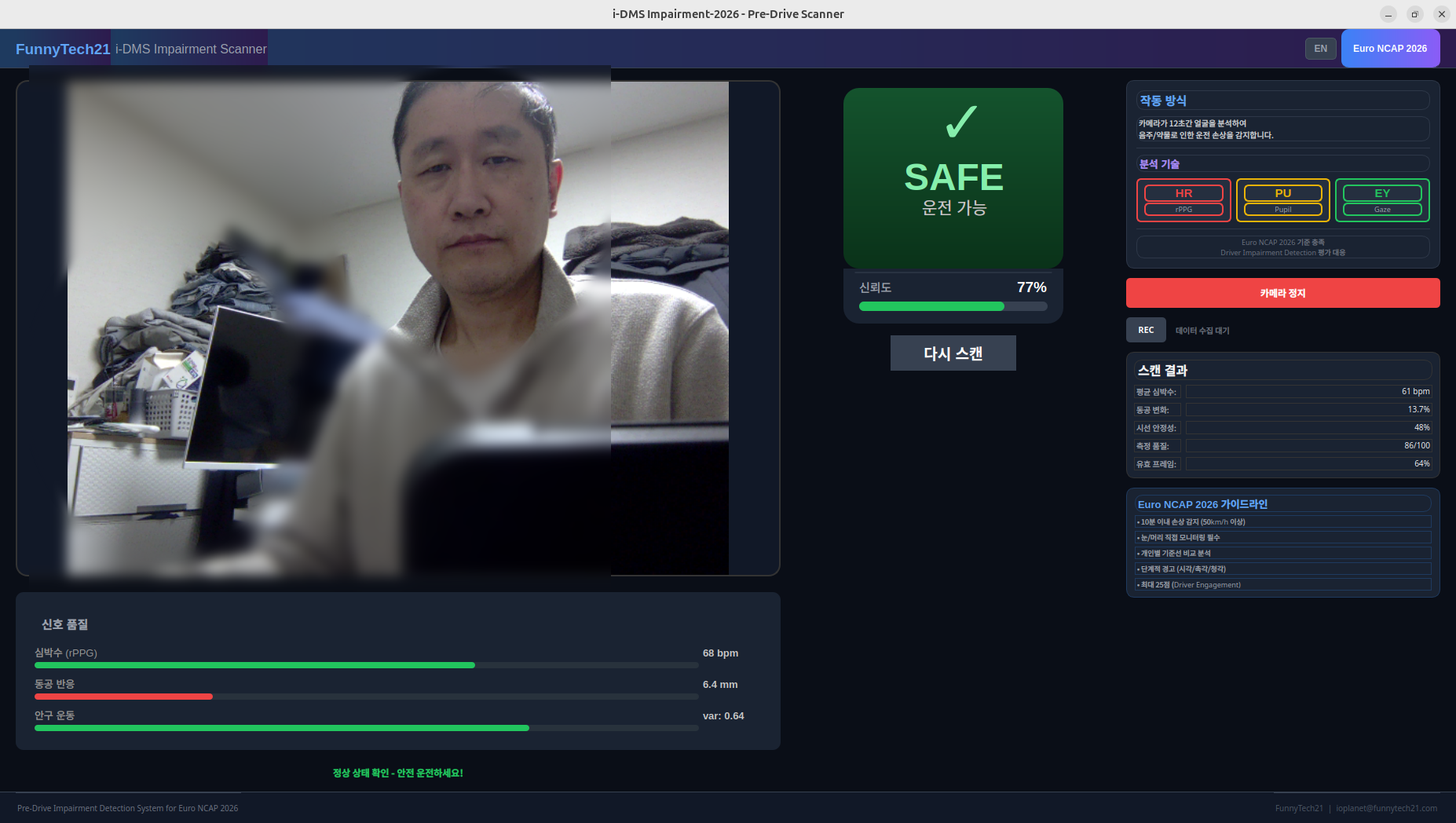
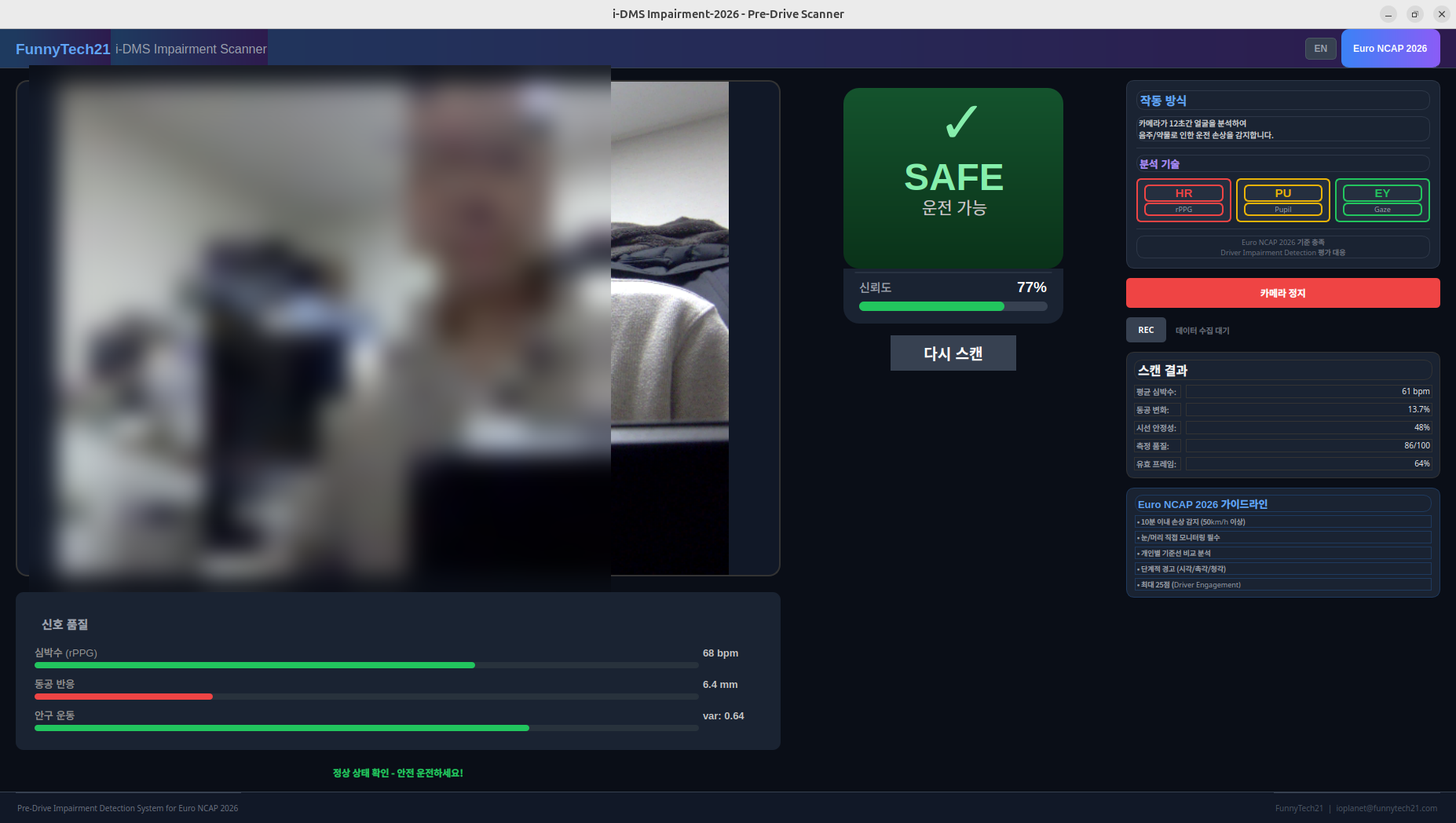
Revamp blog post: Autonomous driving open-source era & driver state analysis
- New concept: Why driver state analysis matters when AD tech becomes commodity
- Emphasize liability proof system instead of just alcohol detection
- Highlight 4 key differentiators: legal evidence, alcohol detection, on-device processing, AD ecosystem complement
- Apply strong blur to person/background in screenshots for privacy
- Update blog title and description

diff --git a/blog-idms-alcohol-detection.html b/blog-idms-alcohol-detection.html
@@ -467,8 +467,8 @@
                 <span class="article-category" data-ko="i-DMS Technology" data-en="i-DMS Technology" data-ja="i-DMS技術" data-zh="i-DMS技术">i-DMS Technology</span>
                 <span class="article-date">2026.01.09</span>
             </div>
-            <h1 data-ko="i-DMS: AI 기반 비접촉 알코올 검출 솔루션" data-en="i-DMS: AI-based Non-contact Alcohol Detection Solution" data-ja="i-DMS: AI基盤非接触アルコール検出ソリューション" data-zh="i-DMS: 基于AI的非接触式酒精检测解决方案">i-DMS: AI 기반 비접촉 알코올 검출 솔루션</h1>
-            <p class="article-summary" data-ko="Euro NCAP 2026 Impairment Detection 기준을 만족하는 FunnyTech21의 AI 기반 운전자 손상 상태 탐지 솔루션입니다. 동공, 시선, 안진, HRV 분석을 통해 운전자의 알코올 음주 상태를 비접촉으로 탐지합니다." data-en="FunnyTech21's AI-based driver impairment detection solution meeting Euro NCAP 2026 Impairment Detection standards. Non-contact alcohol detection through pupil, gaze, nystagmus, and HRV analysis." data-ja="Euro NCAP 2026 Impairment Detection基準を満たすFunnyTech21のAI基盤ドライバー損傷状態検出ソリューション。瞳孔、視線、眼振、HRV分析による非接触アルコール検出。" data-zh="满足Euro NCAP 2026损伤检测标准的FunnyTech21 AI驾驶员损伤状态检测解决方案。通过瞳孔、视线、眼震、HRV分析实现非接触式酒精检测。">Euro NCAP 2026 Impairment Detection 기준을 만족하는 FunnyTech21의 AI 기반 운전자 손상 상태 탐지 솔루션입니다. 동공, 시선, 안진, HRV 분석을 통해 운전자의 알코올 음주 상태를 비접촉으로 탐지합니다.</p>
+            <h1 data-ko="자율주행 오픈소스 시대, 진짜 필요한 것은 '운전자 상태 분석'이다" data-en="In the Era of Open-Source Autonomous Driving, What Really Matters is 'Driver State Analysis'" data-ja="自動運転オープンソース時代、本当に必要なのは「運転者状態分析」だ" data-zh="在自动驾驶开源时代，真正需要的是'驾驶员状态分析'">자율주행 오픈소스 시대, 진짜 필요한 것은 '운전자 상태 분석'이다</h1>
+            <p class="article-summary" data-ko="자율주행 기술이 오픈소스로 풀리면서 기술 차별화의 시대는 끝났습니다. 이제 진짜 경쟁력은 '사고 발생 시 누가 책임지는가'를 증명할 수 있는 온디바이스 운전자 상태 분석 기술에 있습니다." data-en="As autonomous driving technology becomes open source, the era of technical differentiation is over. The real competitive edge now lies in on-device driver state analysis technology that can prove 'who is responsible when accidents occur.'" data-ja="自動運転技術がオープンソース化され、技術差別化の時代は終わりました。今、本当の競争力は「事故発生時に誰が責任を負うか」を証明できるオンデバイス運転者状態分析技術にあります。" data-zh="随着自动驾驶技术开源化，技术差异化的时代已经结束。现在真正的竞争力在于能够证明'事故发生时谁负责'的设备端驾驶员状态分析技术。">자율주행 기술이 오픈소스로 풀리면서 기술 차별화의 시대는 끝났습니다. 이제 진짜 경쟁력은 '사고 발생 시 누가 책임지는가'를 증명할 수 있는 온디바이스 운전자 상태 분석 기술에 있습니다.</p>
         </div>
     </header>
 
@@ -479,41 +479,45 @@
         </a>
 
         <div class="article-content">
-            <h2 data-ko="Euro NCAP 2026 Impairment Detection" data-en="Euro NCAP 2026 Impairment Detection" data-ja="Euro NCAP 2026 Impairment Detection" data-zh="Euro NCAP 2026 Impairment Detection">Euro NCAP 2026 Impairment Detection</h2>
+            <h2 data-ko="자율주행 기술의 범용화" data-en="Commoditization of Autonomous Driving Technology" data-ja="自動運転技術の汎用化" data-zh="自动驾驶技术的通用化">자율주행 기술의 범용화</h2>
 
-            <p data-ko="2026년부터 Euro NCAP은 차량 안전 평가에 새로운 기준을 도입합니다. 기존의 졸음 감지(Drowsiness)와 주의력 분산 감지(Distraction)에 더해, 알코올 등 약물에 의한 운전자 손상 상태(Impairment)를 탐지하는 기능이 평가 항목에 추가됩니다." data-en="Starting in 2026, Euro NCAP introduces new criteria for vehicle safety assessment. In addition to existing drowsiness and distraction detection, driver impairment detection from alcohol and other substances will be added to the evaluation criteria." data-ja="2026年からEuro NCAPは車両安全評価に新しい基準を導入します。既存の居眠り検知と注意散漫検知に加え、アルコール等による運転者損傷状態の検出機能が評価項目に追加されます。" data-zh="从2026年开始，Euro NCAP将为车辆安全评估引入新标准。除了现有的疲劳检测和注意力分散检测外，还将增加对酒精等物质导致的驾驶员损伤状态检测的评估项目。">2026년부터 Euro NCAP은 차량 안전 평가에 새로운 기준을 도입합니다. 기존의 졸음 감지(Drowsiness)와 주의력 분산 감지(Distraction)에 더해, 알코올 등 약물에 의한 운전자 손상 상태(Impairment)를 탐지하는 기능이 평가 항목에 추가됩니다.</p>
+            <p data-ko="최근 자율주행 업계에 큰 변화가 일어났습니다. 글로벌 반도체 기업들이 자율주행 솔루션을 오픈소스로 공개하면서, 자율주행 기술 자체는 더 이상 차별화 요소가 아니게 되었습니다. 이제 누구나 검증된 자율주행 스택을 활용할 수 있는 시대가 열린 것입니다." data-en="A major shift has occurred in the autonomous driving industry. As global semiconductor companies release their autonomous driving solutions as open source, the technology itself is no longer a differentiator. We've entered an era where anyone can leverage proven autonomous driving stacks." data-ja="最近、自動運転業界に大きな変化が起きました。グローバル半導体企業が自動運転ソリューションをオープンソースで公開し、自動運転技術自体はもはや差別化要素ではなくなりました。誰もが検証された自動運転スタックを活用できる時代が開かれました。" data-zh="自动驾驶行业最近发生了重大变化。随着全球半导体公司将其自动驾驶解决方案开源，该技术本身不再是差异化因素。我们已进入任何人都可以利用经过验证的自动驾驶堆栈的时代。">최근 자율주행 업계에 큰 변화가 일어났습니다. 글로벌 반도체 기업들이 자율주행 솔루션을 오픈소스로 공개하면서, 자율주행 기술 자체는 더 이상 차별화 요소가 아니게 되었습니다. 이제 누구나 검증된 자율주행 스택을 활용할 수 있는 시대가 열린 것입니다.</p>
 
-            <p data-ko="이는 음주운전으로 인한 교통사고를 예방하기 위한 중요한 기술적 진보입니다. 기존의 음주측정기는 운전자가 직접 호흡을 불어넣어야 하는 접촉 방식이지만, Euro NCAP 2026 기준은 카메라 기반의 비접촉 방식으로 운전자의 손상 상태를 탐지할 것을 요구합니다." data-en="This represents an important technological advancement in preventing drunk driving accidents. While traditional breathalyzers require direct breath contact, Euro NCAP 2026 standards require camera-based non-contact detection of driver impairment." data-ja="これは飲酒運転による交通事故を防止するための重要な技術的進歩です。従来の飲酒検知器は運転者が直接息を吹きかける接触方式ですが、Euro NCAP 2026基準はカメラベースの非接触方式での損傷状態検出を要求しています。" data-zh="这是预防酒驾事故的重要技术进步。传统酒精检测仪需要驾驶员直接吹气，而Euro NCAP 2026标准要求基于摄像头的非接触式驾驶员损伤状态检测。">이는 음주운전으로 인한 교통사고를 예방하기 위한 중요한 기술적 진보입니다. 기존의 음주측정기는 운전자가 직접 호흡을 불어넣어야 하는 접촉 방식이지만, Euro NCAP 2026 기준은 카메라 기반의 비접촉 방식으로 운전자의 손상 상태를 탐지할 것을 요구합니다.</p>
+            <p data-ko="하지만 자율주행 기술의 범용화가 모든 문제를 해결하는 것은 아닙니다. 오히려 새로운 질문이 떠오릅니다: <strong>'사고가 발생했을 때, 누가 책임을 지는가?'</strong>" data-en="However, the commoditization of autonomous driving technology doesn't solve all problems. Instead, a new question arises: <strong>'When an accident occurs, who is responsible?'</strong>" data-ja="しかし、自動運転技術の汎用化が全ての問題を解決するわけではありません。むしろ新しい質問が浮かびます：<strong>「事故が発生した時、誰が責任を負うのか？」</strong>" data-zh="然而，自动驾驶技术的通用化并不能解决所有问题。相反，一个新的问题出现了：<strong>'当事故发生时，谁来负责？'</strong>">하지만 자율주행 기술의 범용화가 모든 문제를 해결하는 것은 아닙니다. 오히려 새로운 질문이 떠오릅니다: <strong>'사고가 발생했을 때, 누가 책임을 지는가?'</strong></p>
 
-            <h2 data-ko="i-DMS 솔루션 개요" data-en="i-DMS Solution Overview" data-ja="i-DMSソリューション概要" data-zh="i-DMS解决方案概述">i-DMS 솔루션 개요</h2>
+            <h2 data-ko="자율주행 시대의 책임 소재 문제" data-en="The Liability Question in the Autonomous Driving Era" data-ja="自動運転時代の責任所在問題" data-zh="自动驾驶时代的责任归属问题">자율주행 시대의 책임 소재 문제</h2>
 
-            <p data-ko="FunnyTech21의 i-DMS(Intelligent Driver Monitoring System)는 이러한 Euro NCAP 2026 기준을 만족시키기 위해 개발된 AI 기반 운전자 모니터링 솔루션입니다. 카메라로 촬영한 운전자의 얼굴 영상에서 다양한 생체지표를 분석하여 알코올 음주 상태를 판별합니다." data-en="FunnyTech21's i-DMS (Intelligent Driver Monitoring System) is an AI-based driver monitoring solution developed to meet Euro NCAP 2026 standards. It analyzes various biometric indicators from camera-captured driver facial images to detect alcohol intoxication." data-ja="FunnyTech21のi-DMS（Intelligent Driver Monitoring System）は、Euro NCAP 2026基準を満たすために開発されたAI基盤ドライバーモニタリングソリューションです。カメラで撮影した運転者の顔映像から様々な生体指標を分析してアルコール飲酒状態を判別します。" data-zh="FunnyTech21的i-DMS（智能驾驶员监控系统）是为满足Euro NCAP 2026标准而开发的AI驾驶员监控解决方案。它通过分析摄像头拍摄的驾驶员面部图像中的各种生物特征指标来检测酒精中毒状态。">FunnyTech21의 i-DMS(Intelligent Driver Monitoring System)는 이러한 Euro NCAP 2026 기준을 만족시키기 위해 개발된 AI 기반 운전자 모니터링 솔루션입니다. 카메라로 촬영한 운전자의 얼굴 영상에서 다양한 생체지표를 분석하여 알코올 음주 상태를 판별합니다.</p>
+            <p data-ko="자율주행 차량이 사고를 일으켰을 때, 법적 책임은 누구에게 있을까요? 차량 제조사? 자율주행 소프트웨어 개발사? 아니면 운전석에 앉아 있던 사람? 이 질문에 대한 명확한 답이 없다면, 자율주행 기술의 상용화는 계속 지연될 수밖에 없습니다." data-en="When an autonomous vehicle causes an accident, who bears legal liability? The vehicle manufacturer? The autonomous driving software developer? Or the person sitting in the driver's seat? Without clear answers to these questions, the commercialization of autonomous driving technology will continue to be delayed." data-ja="自動運転車が事故を起こした時、法的責任は誰にあるのでしょうか？車両メーカー？自動運転ソフトウェア開発会社？それとも運転席に座っていた人？この質問に対する明確な答えがなければ、自動運転技術の商用化は遅れ続けるしかありません。" data-zh="当自动驾驶汽车发生事故时，谁承担法律责任？汽车制造商？自动驾驶软件开发商？还是坐在驾驶座上的人？如果这些问题没有明确的答案，自动驾驶技术的商业化将继续延迟。">자율주행 차량이 사고를 일으켰을 때, 법적 책임은 누구에게 있을까요? 차량 제조사? 자율주행 소프트웨어 개발사? 아니면 운전석에 앉아 있던 사람? 이 질문에 대한 명확한 답이 없다면, 자율주행 기술의 상용화는 계속 지연될 수밖에 없습니다.</p>
+
+            <p data-ko="핵심은 이것입니다: <strong>사고 순간 운전자가 어떤 상태였는지를 객관적으로 증명할 수 있어야 합니다.</strong> 운전자가 정상 상태로 주시 의무를 다하고 있었는지, 아니면 음주/약물/졸음 상태였는지를 법적 증거 수준으로 기록할 수 있어야 책임 소재가 명확해집니다." data-en="The key point is this: <strong>We must be able to objectively prove what state the driver was in at the moment of the accident.</strong> Whether the driver was in a normal state fulfilling their duty of attention, or under the influence of alcohol/drugs/drowsiness—this must be recorded at a legal evidence level for liability to be clear." data-ja="核心はこれです：<strong>事故の瞬間、運転者がどのような状態だったかを客観的に証明できなければなりません。</strong>運転者が正常な状態で注視義務を果たしていたか、それとも飲酒/薬物/居眠り状態だったかを法的証拠レベルで記録できてこそ責任所在が明確になります。" data-zh="关键在于：<strong>必须能够客观证明事故发生时驾驶员处于什么状态。</strong>驾驶员是否处于正常状态履行注意义务，还是处于酒精/药物/困倦状态——这必须以法律证据级别记录，责任归属才能明确。">핵심은 이것입니다: <strong>사고 순간 운전자가 어떤 상태였는지를 객관적으로 증명할 수 있어야 합니다.</strong> 운전자가 정상 상태로 주시 의무를 다하고 있었는지, 아니면 음주/약물/졸음 상태였는지를 법적 증거 수준으로 기록할 수 있어야 책임 소재가 명확해집니다.</p>
+
+            <h2 data-ko="i-DMS: 운전자 상태 분석의 새로운 기준" data-en="i-DMS: A New Standard in Driver State Analysis" data-ja="i-DMS: 運転者状態分析の新しい基準" data-zh="i-DMS: 驾驶员状态分析的新标准">i-DMS: 운전자 상태 분석의 새로운 기준</h2>
+
+            <p data-ko="FunnyTech21의 i-DMS(Intelligent Driver Monitoring System)는 바로 이 문제를 해결하기 위해 개발되었습니다. 단순한 졸음 감지를 넘어, 운전자의 알코올/약물 손상 상태를 비접촉으로 탐지하고, 이를 법적 증거 수준으로 기록하는 시스템입니다." data-en="FunnyTech21's i-DMS (Intelligent Driver Monitoring System) was developed to solve exactly this problem. Going beyond simple drowsiness detection, it's a system that non-contactly detects alcohol/drug impairment in drivers and records this at legal evidence level." data-ja="FunnyTech21のi-DMS（Intelligent Driver Monitoring System）は、まさにこの問題を解決するために開発されました。単純な居眠り検知を超え、運転者のアルコール/薬物損傷状態を非接触で検出し、これを法的証拠レベルで記録するシステムです。" data-zh="FunnyTech21的i-DMS（智能驾驶员监控系统）正是为解决这个问题而开发的。超越简单的疲劳检测，它是一个非接触检测驾驶员酒精/药物损伤状态并以法律证据级别记录的系统。">FunnyTech21의 i-DMS(Intelligent Driver Monitoring System)는 바로 이 문제를 해결하기 위해 개발되었습니다. 단순한 졸음 감지를 넘어, 운전자의 알코올/약물 손상 상태를 비접촉으로 탐지하고, 이를 법적 증거 수준으로 기록하는 시스템입니다.</p>
 
             <div class="image-container">
                 <img src="imgs/blog/idms-scanner-scanning.png" alt="i-DMS Scanner Scanning Mode" data-ko="i-DMS 스캐너 - 스캔 진행 중" data-en="i-DMS Scanner - Scanning in Progress">
                 <p class="image-caption" data-ko="i-DMS 스캐너: 실시간 얼굴 분석 및 생체지표 측정 진행 화면" data-en="i-DMS Scanner: Real-time facial analysis and biometric measurement in progress" data-ja="i-DMSスキャナー：リアルタイム顔分析と生体指標測定進行画面" data-zh="i-DMS扫描仪：实时面部分析和生物特征测量进行中">i-DMS 스캐너: 실시간 얼굴 분석 및 생체지표 측정 진행 화면</p>
             </div>
 
-            <h2 data-ko="핵심 생체지표 분석 기술" data-en="Core Biometric Analysis Technology" data-ja="コア生体指標分析技術" data-zh="核心生物特征分析技术">핵심 생체지표 분석 기술</h2>
-
-            <p data-ko="i-DMS는 알코올 섭취 시 나타나는 생리학적 변화를 다각도로 분석합니다. 다음의 4가지 핵심 생체지표를 통합 분석하여 운전자의 손상 상태를 판별합니다:" data-en="i-DMS analyzes physiological changes that occur with alcohol consumption from multiple angles. It determines driver impairment status through integrated analysis of the following 4 core biometric indicators:" data-ja="i-DMSはアルコール摂取時に現れる生理学的変化を多角的に分析します。以下の4つのコア生体指標を統合分析して運転者の損傷状態を判別します：" data-zh="i-DMS从多个角度分析酒精摄入时出现的生理变化。通过对以下4项核心生物特征指标的综合分析来判断驾驶员的损伤状态：">i-DMS는 알코올 섭취 시 나타나는 생리학적 변화를 다각도로 분석합니다. 다음의 4가지 핵심 생체지표를 통합 분석하여 운전자의 손상 상태를 판별합니다:</p>
+            <h2 data-ko="i-DMS의 4가지 차별화 포인트" data-en="4 Key Differentiators of i-DMS" data-ja="i-DMSの4つの差別化ポイント" data-zh="i-DMS的4大差异化优势">i-DMS의 4가지 차별화 포인트</h2>
 
             <div class="feature-grid">
                 <div class="feature-card">
-                    <h4 data-ko="동공 분석 (Pupil Analysis)" data-en="Pupil Analysis" data-ja="瞳孔分析" data-zh="瞳孔分析">동공 분석 (Pupil Analysis)</h4>
-                    <p data-ko="알코올 섭취 시 동공의 크기 변화와 대광반사(Pupillary Light Reflex) 속도가 저하됩니다. i-DMS는 동공의 평균 크기, 표준편차, 변동 범위를 실시간으로 분석합니다." data-en="Alcohol consumption causes changes in pupil size and decreased pupillary light reflex speed. i-DMS analyzes pupil mean size, standard deviation, and variation range in real-time." data-ja="アルコール摂取時、瞳孔サイズの変化と対光反射速度が低下します。i-DMSは瞳孔の平均サイズ、標準偏差、変動範囲をリアルタイムで分析します。" data-zh="酒精摄入会导致瞳孔大小变化和瞳孔光反射速度下降。i-DMS实时分析瞳孔平均大小、标准差和变化范围。">알코올 섭취 시 동공의 크기 변화와 대광반사(Pupillary Light Reflex) 속도가 저하됩니다. i-DMS는 동공의 평균 크기, 표준편차, 변동 범위를 실시간으로 분석합니다.</p>
+                    <h4 data-ko="1. 법적 증거 특화 설계" data-en="1. Legal Evidence-Specialized Design" data-ja="1. 法的証拠特化設計" data-zh="1. 法律证据专用设计">1. 법적 증거 특화 설계</h4>
+                    <p data-ko="밀리초 단위의 정밀 타임스탬프 기록, 위변조 방지 암호화 서명, 체인 오브 커스터디(Chain of Custody) 유지를 통해 법정에서 인정받을 수 있는 증거 데이터를 생성합니다." data-en="Generates court-admissible evidence data through millisecond-precision timestamps, tamper-proof cryptographic signatures, and maintained chain of custody." data-ja="ミリ秒単位の精密タイムスタンプ記録、改ざん防止暗号化署名、チェーン・オブ・カストディの維持により、法廷で認められる証拠データを生成します。" data-zh="通过毫秒级精确时间戳记录、防篡改加密签名和监管链维护，生成法庭可采信的证据数据。">밀리초 단위의 정밀 타임스탬프 기록, 위변조 방지 암호화 서명, 체인 오브 커스터디(Chain of Custody) 유지를 통해 법정에서 인정받을 수 있는 증거 데이터를 생성합니다.</p>
                 </div>
                 <div class="feature-card">
-                    <h4 data-ko="시선 추적 (Gaze Tracking)" data-en="Gaze Tracking" data-ja="視線追跡" data-zh="视线追踪">시선 추적 (Gaze Tracking)</h4>
-                    <p data-ko="음주 상태에서는 시선의 안정성이 저하되고 불규칙한 움직임이 증가합니다. i-DMS는 시선 분산도, 단속성 안구운동(Saccade) 빈도를 분석하여 상태를 판별합니다." data-en="Intoxication reduces gaze stability and increases irregular eye movements. i-DMS analyzes gaze variance and saccade frequency to determine status." data-ja="飲酒状態では視線の安定性が低下し、不規則な動きが増加します。i-DMSは視線分散度とサッケード頻度を分析して状態を判別します。" data-zh="醉酒状态下视线稳定性下降，不规则眼球运动增加。i-DMS分析视线分散度和扫视频率来判断状态。">음주 상태에서는 시선의 안정성이 저하되고 불규칙한 움직임이 증가합니다. i-DMS는 시선 분산도, 단속성 안구운동(Saccade) 빈도를 분석하여 상태를 판별합니다.</p>
+                    <h4 data-ko="2. 알코올/약물 감지 특화" data-en="2. Alcohol/Drug Detection Specialization" data-ja="2. アルコール/薬物検出特化" data-zh="2. 酒精/药物检测专业化">2. 알코올/약물 감지 특화</h4>
+                    <p data-ko="안구 진탕(Nystagmus) 검출, 동공 반응 이상 분석, 복합 생체 지표 융합을 통해 음주/약물 상태를 비접촉으로 탐지합니다. 경찰이 현장에서 사용하는 HGN 테스트를 AI로 자동화했습니다." data-en="Non-contact detection of alcohol/drug impairment through nystagmus detection, pupil response analysis, and multi-biometric fusion. Automates the HGN test used by police at the scene with AI." data-ja="眼振検出、瞳孔反応異常分析、複合生体指標融合により飲酒/薬物状態を非接触で検出します。警察が現場で使用するHGNテストをAIで自動化しました。" data-zh="通过眼震检测、瞳孔反应异常分析和多生物特征融合，非接触检测酒精/药物损伤状态。将警察在现场使用的HGN测试实现AI自动化。">안구 진탕(Nystagmus) 검출, 동공 반응 이상 분석, 복합 생체 지표 융합을 통해 음주/약물 상태를 비접촉으로 탐지합니다. 경찰이 현장에서 사용하는 HGN 테스트를 AI로 자동화했습니다.</p>
                 </div>
                 <div class="feature-card">
-                    <h4 data-ko="안진 검출 (Nystagmus Detection)" data-en="Nystagmus Detection" data-ja="眼振検出" data-zh="眼震检测">안진 검출 (Nystagmus Detection)</h4>
-                    <p data-ko="수평주시안진(HGN: Horizontal Gaze Nystagmus)은 음주 시 나타나는 대표적인 증상입니다. 눈이 좌우 극단을 바라볼 때 발생하는 미세한 떨림을 분석합니다." data-en="Horizontal Gaze Nystagmus (HGN) is a typical symptom of intoxication. It analyzes subtle eye tremors that occur when eyes look to the extreme left or right." data-ja="水平注視眼振（HGN）は飲酒時に現れる代表的な症状です。目が左右の極端を見る時に発生する微細な震えを分析します。" data-zh="水平注视眼震（HGN）是醉酒时的典型症状。它分析眼睛看向左右极端时产生的细微震颤。">수평주시안진(HGN: Horizontal Gaze Nystagmus)은 음주 시 나타나는 대표적인 증상입니다. 눈이 좌우 극단을 바라볼 때 발생하는 미세한 떨림을 분석합니다.</p>
+                    <h4 data-ko="3. 온디바이스 실시간 처리" data-en="3. On-Device Real-time Processing" data-ja="3. オンデバイスリアルタイム処理" data-zh="3. 设备端实时处理">3. 온디바이스 실시간 처리</h4>
+                    <p data-ko="차량 내장 ECU에서 10ms 이내 실시간 처리가 가능합니다. 클라우드 연결 없이 완전히 독립적으로 동작하며, 모든 데이터는 차량 내부에서만 처리되어 프라이버시를 완벽히 보장합니다." data-en="Real-time processing within 10ms on vehicle embedded ECU. Operates completely independently without cloud connection, with all data processed only inside the vehicle, ensuring complete privacy." data-ja="車両内蔵ECUで10ms以内のリアルタイム処理が可能です。クラウド接続なしで完全に独立動作し、全データは車両内部でのみ処理されプライバシーを完全に保証します。" data-zh="在车辆嵌入式ECU上实现10ms内的实时处理。无需云连接即可完全独立运行，所有数据仅在车辆内部处理，完全保护隐私。">차량 내장 ECU에서 10ms 이내 실시간 처리가 가능합니다. 클라우드 연결 없이 완전히 독립적으로 동작하며, 모든 데이터는 차량 내부에서만 처리되어 프라이버시를 완벽히 보장합니다.</p>
                 </div>
                 <div class="feature-card">
-                    <h4 data-ko="심박 변이도 (HRV Analysis)" data-en="HRV Analysis" data-ja="心拍変動度分析" data-zh="心率变异性分析">심박 변이도 (HRV Analysis)</h4>
-                    <p data-ko="rPPG 기술로 비접촉 측정한 심박수에서 HRV를 분석합니다. 알코올은 자율신경계에 영향을 주어 HRV 패턴을 변화시키며, 이를 통해 음주 상태를 간접적으로 판별합니다." data-en="Analyzes HRV from heart rate measured non-contact via rPPG technology. Alcohol affects the autonomic nervous system, changing HRV patterns, enabling indirect detection of intoxication." data-ja="rPPG技術で非接触測定した心拍数からHRVを分析します。アルコールは自律神経系に影響を与えてHRVパターンを変化させ、これにより飲酒状態を間接的に判別します。" data-zh="通过rPPG技术非接触测量的心率分析HRV。酒精影响自主神经系统，改变HRV模式，从而间接检测醉酒状态。">rPPG 기술로 비접촉 측정한 심박수에서 HRV를 분석합니다. 알코올은 자율신경계에 영향을 주어 HRV 패턴을 변화시키며, 이를 통해 음주 상태를 간접적으로 판별합니다.</p>
+                    <h4 data-ko="4. 자율주행 생태계 보완재" data-en="4. Autonomous Driving Ecosystem Complement" data-ja="4. 自動運転エコシステム補完材" data-zh="4. 自动驾驶生态系统补充">4. 자율주행 생태계 보완재</h4>
+                    <p data-ko="자율주행 플랫폼과 결합하여 완전한 책임 증명 체계를 구성합니다. 자율주행 시스템이 '차량이 무엇을 했는지'를 기록한다면, i-DMS는 '운전자가 어떤 상태였는지'를 기록합니다." data-en="Combined with autonomous driving platforms to form a complete liability proof system. If autonomous driving systems record 'what the vehicle did,' i-DMS records 'what state the driver was in.'" data-ja="自動運転プラットフォームと結合して完全な責任証明体系を構成します。自動運転システムが「車両が何をしたか」を記録するなら、i-DMSは「運転者がどのような状態だったか」を記録します。" data-zh="与自动驾驶平台结合，形成完整的责任证明体系。如果自动驾驶系统记录'车辆做了什么'，i-DMS则记录'驾驶员处于什么状态'。">자율주행 플랫폼과 결합하여 완전한 책임 증명 체계를 구성합니다. 자율주행 시스템이 '차량이 무엇을 했는지'를 기록한다면, i-DMS는 '운전자가 어떤 상태였는지'를 기록합니다.</p>
                 </div>
             </div>
 
@@ -560,32 +564,24 @@
                 <p class="image-caption" data-ko="i-DMS Data Manager: 학습 히스토리 및 작업 타임라인 관리" data-en="i-DMS Data Manager: Training history and task timeline management" data-ja="i-DMS Data Manager：学習履歴と作業タイムライン管理" data-zh="i-DMS Data Manager：训练历史和任务时间线管理">i-DMS Data Manager: 학습 히스토리 및 작업 타임라인 관리</p>
             </div>
 
-            <h2 data-ko="기술적 특징" data-en="Technical Features" data-ja="技術的特徴" data-zh="技术特点">기술적 특징</h2>
+            <h2 data-ko="왜 온디바이스인가?" data-en="Why On-Device?" data-ja="なぜオンデバイスか？" data-zh="为什么要在设备端？">왜 온디바이스인가?</h2>
 
             <div class="tech-box">
-                <h4 data-ko="Edge Computing 최적화" data-en="Edge Computing Optimization" data-ja="エッジコンピューティング最適化" data-zh="边缘计算优化">Edge Computing 최적화</h4>
+                <h4 data-ko="클라우드가 아닌 차량 내부 처리의 3가지 이유" data-en="3 Reasons for In-Vehicle Processing Instead of Cloud" data-ja="クラウドではなく車両内部処理の3つの理由" data-zh="车内处理而非云端的3个理由">클라우드가 아닌 차량 내부 처리의 3가지 이유</h4>
                 <ul>
-                    <li data-ko="차량 내장 ECU에서 실시간 처리 가능하도록 최적화" data-en="Optimized for real-time processing in vehicle embedded ECU" data-ja="車両内蔵ECUでリアルタイム処理可能なよう最適化" data-zh="优化用于车辆嵌入式ECU的实时处理">차량 내장 ECU에서 실시간 처리 가능하도록 최적화</li>
-                    <li data-ko="ONNX Runtime 기반 경량 추론 엔진 지원" data-en="ONNX Runtime-based lightweight inference engine support" data-ja="ONNX Runtime基盤軽量推論エンジン対応" data-zh="基于ONNX Runtime的轻量级推理引擎支持">ONNX Runtime 기반 경량 추론 엔진 지원</li>
-                    <li data-ko="NVIDIA Jetson AGX Orin 플랫폼 검증 완료" data-en="Verified on NVIDIA Jetson AGX Orin platform" data-ja="NVIDIA Jetson AGX Orinプラットフォーム検証完了" data-zh="已在NVIDIA Jetson AGX Orin平台验证">NVIDIA Jetson AGX Orin 플랫폼 검증 완료</li>
-                    <li data-ko="클라우드 연결 없이 독립적으로 동작" data-en="Operates independently without cloud connection" data-ja="クラウド接続なしで独立的に動作" data-zh="无需云连接即可独立运行">클라우드 연결 없이 독립적으로 동작</li>
+                    <li data-ko="증거 무결성: 네트워크를 거치지 않아 데이터 위변조 가능성 원천 차단" data-en="Evidence Integrity: No network transmission eliminates data tampering possibilities" data-ja="証拠の完全性：ネットワークを経由しないためデータ改ざんの可能性を根本から遮断" data-zh="证据完整性：不经过网络传输，从根本上杜绝数据篡改可能">증거 무결성: 네트워크를 거치지 않아 데이터 위변조 가능성 원천 차단</li>
+                    <li data-ko="즉각적 반응: 10ms 이내 처리로 실시간 경고 및 차량 제어 연동 가능" data-en="Instant Response: Sub-10ms processing enables real-time alerts and vehicle control integration" data-ja="即座の反応：10ms以内の処理でリアルタイム警告と車両制御連動可能" data-zh="即时响应：10ms以内处理，可实现实时警报和车辆控制联动">즉각적 반응: 10ms 이내 처리로 실시간 경고 및 차량 제어 연동 가능</li>
+                    <li data-ko="프라이버시 보장: 얼굴 이미지가 차량 외부로 전송되지 않아 GDPR 완벽 준수" data-en="Privacy Guaranteed: Facial images never leave the vehicle, ensuring full GDPR compliance" data-ja="プライバシー保証：顔画像が車両外部に送信されずGDPR完全準拠" data-zh="隐私保障：面部图像不会传输到车辆外部，完全符合GDPR">프라이버시 보장: 얼굴 이미지가 차량 외부로 전송되지 않아 GDPR 완벽 준수</li>
                 </ul>
             </div>
 
-            <div class="tech-box">
-                <h4 data-ko="프라이버시 보호" data-en="Privacy Protection" data-ja="プライバシー保護" data-zh="隐私保护">프라이버시 보호</h4>
-                <ul>
-                    <li data-ko="모든 데이터 처리는 차량 내부에서 수행" data-en="All data processing performed inside the vehicle" data-ja="全てのデータ処理は車両内部で実行" data-zh="所有数据处理在车辆内部进行">모든 데이터 처리는 차량 내부에서 수행</li>
-                    <li data-ko="얼굴 이미지는 분석 후 즉시 폐기" data-en="Facial images discarded immediately after analysis" data-ja="顔画像は分析後即座に廃棄" data-zh="面部图像分析后立即丢弃">얼굴 이미지는 분석 후 즉시 폐기</li>
-                    <li data-ko="개인정보 미저장, GDPR 준수" data-en="No personal data stored, GDPR compliant" data-ja="個人情報未保存、GDPR準拠" data-zh="不存储个人数据，符合GDPR">개인정보 미저장, GDPR 준수</li>
-                </ul>
-            </div>
+            <h2 data-ko="결론: 자율주행의 Missing Piece" data-en="Conclusion: The Missing Piece of Autonomous Driving" data-ja="結論：自動運転のMissing Piece" data-zh="结论：自动驾驶的缺失拼图">결론: 자율주행의 Missing Piece</h2>
 
-            <h2 data-ko="결론" data-en="Conclusion" data-ja="結論" data-zh="结论">결론</h2>
+            <p data-ko="자율주행 기술이 오픈소스로 풀리는 시대, 진짜 경쟁력은 기술 자체가 아닙니다. 사고 발생 시 '누가 책임지는가'를 명확히 증명할 수 있는 시스템이 없다면, 자율주행의 상용화는 계속 지연될 것입니다." data-en="In an era where autonomous driving technology is becoming open source, the real competitive edge isn't the technology itself. Without a system that can clearly prove 'who is responsible' when accidents occur, the commercialization of autonomous driving will continue to be delayed." data-ja="自動運転技術がオープンソース化される時代、本当の競争力は技術自体ではありません。事故発生時「誰が責任を負うか」を明確に証明できるシステムがなければ、自動運転の商用化は遅れ続けるでしょう。" data-zh="在自动驾驶技术开源的时代，真正的竞争力不在于技术本身。如果没有一个能够清楚证明事故发生时'谁负责'的系统，自动驾驶的商业化将继续延迟。">자율주행 기술이 오픈소스로 풀리는 시대, 진짜 경쟁력은 기술 자체가 아닙니다. 사고 발생 시 '누가 책임지는가'를 명확히 증명할 수 있는 시스템이 없다면, 자율주행의 상용화는 계속 지연될 것입니다.</p>
 
-            <p data-ko="FunnyTech21의 i-DMS는 Euro NCAP 2026 Impairment Detection 기준에 대응하는 선도적인 기술 솔루션입니다. 동공, 시선, 안진, HRV 등 다중 생체지표 분석을 통해 기존의 접촉식 음주측정 방식의 한계를 극복하고, 완전히 비접촉 방식으로 운전자의 손상 상태를 탐지합니다." data-en="FunnyTech21's i-DMS is a leading technology solution addressing Euro NCAP 2026 Impairment Detection standards. Through multi-biometric analysis of pupil, gaze, nystagmus, and HRV, it overcomes limitations of traditional contact-based breathalyzer methods, detecting driver impairment in a completely non-contact manner." data-ja="FunnyTech21のi-DMSはEuro NCAP 2026 Impairment Detection基準に対応する先導的な技術ソリューションです。瞳孔、視線、眼振、HRVなど多重生体指標分析を通じて、従来の接触式飲酒検査方式の限界を克服し、完全に非接触方式で運転者の損傷状態を検出します。" data-zh="FunnyTech21的i-DMS是应对Euro NCAP 2026损伤检测标准的领先技术解决方案。通过对瞳孔、视线、眼震、HRV等多重生物特征的分析，克服了传统接触式酒精检测方法的局限性，以完全非接触的方式检测驾驶员的损伤状态。">FunnyTech21의 i-DMS는 Euro NCAP 2026 Impairment Detection 기준에 대응하는 선도적인 기술 솔루션입니다. 동공, 시선, 안진, HRV 등 다중 생체지표 분석을 통해 기존의 접촉식 음주측정 방식의 한계를 극복하고, 완전히 비접촉 방식으로 운전자의 손상 상태를 탐지합니다.</p>
+            <p data-ko="i-DMS는 이 문제를 해결합니다. 운전자의 알코올/약물 손상 상태를 비접촉으로 탐지하고, 법적 증거 수준으로 기록하며, 완전히 온디바이스로 처리합니다. 자율주행 시스템과 결합하면, '차량이 무엇을 했는지' + '운전자가 어떤 상태였는지'를 모두 증명할 수 있는 완전한 책임 증명 체계가 완성됩니다." data-en="i-DMS solves this problem. It detects driver alcohol/drug impairment non-contact, records at legal evidence level, and processes entirely on-device. Combined with autonomous driving systems, it completes a full liability proof system that can prove both 'what the vehicle did' + 'what state the driver was in.'" data-ja="i-DMSはこの問題を解決します。運転者のアルコール/薬物損傷状態を非接触で検出し、法的証拠レベルで記録し、完全にオンデバイスで処理します。自動運転システムと結合すれば、「車両が何をしたか」+「運転者がどのような状態だったか」を全て証明できる完全な責任証明体系が完成します。" data-zh="i-DMS解决了这个问题。它非接触检测驾驶员的酒精/药物损伤状态，以法律证据级别记录，并完全在设备端处理。与自动驾驶系统结合，就能完成一个可以证明'车辆做了什么'+'驾驶员处于什么状态'的完整责任证明体系。">i-DMS는 이 문제를 해결합니다. 운전자의 알코올/약물 손상 상태를 비접촉으로 탐지하고, 법적 증거 수준으로 기록하며, 완전히 온디바이스로 처리합니다. 자율주행 시스템과 결합하면, '차량이 무엇을 했는지' + '운전자가 어떤 상태였는지'를 모두 증명할 수 있는 완전한 책임 증명 체계가 완성됩니다.</p>
 
-            <p data-ko="Edge Computing 최적화로 차량 내부에서 실시간 처리가 가능하며, 운전자의 프라이버시를 완벽하게 보호합니다. 이를 통해 OEM 및 Tier 1 공급업체들은 Euro NCAP 2026 기준을 효과적으로 충족시킬 수 있습니다." data-en="With Edge Computing optimization, real-time processing is possible inside the vehicle while fully protecting driver privacy. This enables OEMs and Tier 1 suppliers to effectively meet Euro NCAP 2026 standards." data-ja="エッジコンピューティング最適化により車両内部でリアルタイム処理が可能で、運転者のプライバシーを完全に保護します。これによりOEMおよびTier 1サプライヤーはEuro NCAP 2026基準を効果的に充足できます。" data-zh="通过边缘计算优化，可在车辆内部进行实时处理，同时完全保护驾驶员隐私。这使OEM和一级供应商能够有效满足Euro NCAP 2026标准。">Edge Computing 최적화로 차량 내부에서 실시간 처리가 가능하며, 운전자의 프라이버시를 완벽하게 보호합니다. 이를 통해 OEM 및 Tier 1 공급업체들은 Euro NCAP 2026 기준을 효과적으로 충족시킬 수 있습니다.</p>
+            <p data-ko="<strong>자율주행의 미래는 '주행 기술'만으로 완성되지 않습니다. '운전자 상태 분석'이라는 Missing Piece가 필요합니다. 그리고 i-DMS가 바로 그 조각입니다.</strong>" data-en="<strong>The future of autonomous driving won't be completed with 'driving technology' alone. The Missing Piece of 'driver state analysis' is needed. And i-DMS is that piece.</strong>" data-ja="<strong>自動運転の未来は「走行技術」だけでは完成しません。「運転者状態分析」というMissing Pieceが必要です。そしてi-DMSがまさにそのピースです。</strong>" data-zh="<strong>自动驾驶的未来不会仅靠'驾驶技术'来完成。需要'驾驶员状态分析'这块缺失的拼图。而i-DMS正是那块拼图。</strong>"><strong>자율주행의 미래는 '주행 기술'만으로 완성되지 않습니다. '운전자 상태 분석'이라는 Missing Piece가 필요합니다. 그리고 i-DMS가 바로 그 조각입니다.</strong></p>
 
         </div>
     </article>

diff --git a/blog.html b/blog.html
@@ -428,14 +428,14 @@
                 <span class="blog-category rppg">i-DMS Technology</span>
                 <span class="blog-date">2026.01.09</span>
             </div>
-            <h2><a href="blog-idms-alcohol-detection.html" data-ko="i-DMS: AI 기반 비접촉 알코올 검출 솔루션" data-en="i-DMS: AI-based Non-contact Alcohol Detection Solution" data-ja="i-DMS: AI基盤非接触アルコール検出ソリューション" data-zh="i-DMS: 基于AI的非接触式酒精检测解决方案" data-de="i-DMS: KI-basierte kontaktlose Alkoholerkennungslösung" data-es="i-DMS: Solución de detección de alcohol sin contacto basada en IA" data-fr="i-DMS: Solution de détection d'alcool sans contact basée sur l'IA" data-vi="i-DMS: Giải pháp phát hiện rượu không tiếp xúc dựa trên AI" data-th="i-DMS: โซลูชันตรวจจับแอลกอฮอล์แบบไร้สัมผัสด้วย AI">i-DMS: AI 기반 비접촉 알코올 검출 솔루션</a></h2>
+            <h2><a href="blog-idms-alcohol-detection.html" data-ko="자율주행 오픈소스 시대, 진짜 필요한 것은 '운전자 상태 분석'이다" data-en="In the Era of Open-Source Autonomous Driving, What Really Matters is 'Driver State Analysis'" data-ja="自動運転オープンソース時代、本当に必要なのは「運転者状態分析」だ" data-zh="在自动驾驶开源时代，真正需要的是'驾驶员状态分析'" data-de="Im Zeitalter des Open-Source-Autonomen Fahrens kommt es auf die 'Fahrerstatusanalyse' an" data-es="En la era del código abierto de conducción autónoma, lo que realmente importa es el 'análisis del estado del conductor'" data-fr="À l'ère de la conduite autonome open source, ce qui compte vraiment c'est 'l'analyse de l'état du conducteur'" data-vi="Trong kỷ nguyên lái xe tự động mã nguồn mở, điều thực sự quan trọng là 'Phân tích trạng thái tài xế'" data-th="ในยุคของการขับขี่อัตโนมัติแบบโอเพนซอร์ส สิ่งที่สำคัญจริงๆ คือ 'การวิเคราะห์สถานะผู้ขับขี่'">자율주행 오픈소스 시대, 진짜 필요한 것은 '운전자 상태 분석'이다</a></h2>
             <div class="blog-tags">
                 <span class="blog-tag">i-DMS</span>
-                <span class="blog-tag">Alcohol Detection</span>
-                <span class="blog-tag">Euro NCAP 2026</span>
-                <span class="blog-tag">Impairment</span>
+                <span class="blog-tag">Autonomous Driving</span>
+                <span class="blog-tag">Liability</span>
+                <span class="blog-tag">On-Device AI</span>
             </div>
-            <p class="blog-excerpt" data-ko="Euro NCAP 2026 Impairment Detection 기준을 만족하는 FunnyTech21의 AI 기반 운전자 손상 상태 탐지 솔루션. 동공, 시선, 안진, HRV 분석을 통해 운전자의 알코올 음주 상태를 비접촉으로 탐지합니다." data-en="FunnyTech21's AI-based driver impairment detection solution meeting Euro NCAP 2026 standards. Non-contact alcohol detection through pupil, gaze, nystagmus, and HRV analysis." data-ja="Euro NCAP 2026 Impairment Detection基準を満たすFunnyTech21のAI基盤ドライバー損傷状態検出ソリューション。瞳孔、視線、眼振、HRV分析による非接触アルコール検出。" data-zh="满足Euro NCAP 2026损伤检测标准的FunnyTech21 AI驾驶员损伤状态检测解决方案。通过瞳孔、视线、眼震、HRV分析实现非接触式酒精检测。" data-de="FunnyTech21's KI-basierte Lösung zur Erkennung von Fahrerbeeinträchtigungen nach Euro NCAP 2026 Standards. Kontaktlose Alkoholerkennung durch Pupillen-, Blick-, Nystagmus- und HRV-Analyse." data-es="Solución de detección de deterioro del conductor basada en IA de FunnyTech21 que cumple con los estándares Euro NCAP 2026. Detección de alcohol sin contacto mediante análisis de pupila, mirada, nistagmo y HRV." data-fr="Solution de détection d'altération du conducteur basée sur l'IA de FunnyTech21 répondant aux normes Euro NCAP 2026. Détection d'alcool sans contact par analyse de la pupille, du regard, du nystagmus et de la VFC." data-vi="Giải pháp phát hiện suy giảm khả năng lái xe dựa trên AI của FunnyTech21 đáp ứng tiêu chuẩn Euro NCAP 2026. Phát hiện rượu không tiếp xúc thông qua phân tích đồng tử, ánh nhìn, rung giật nhãn cầu và HRV." data-th="โซลูชันตรวจจับความบกพร่องของผู้ขับขี่ด้วย AI ของ FunnyTech21 ที่เป็นไปตามมาตรฐาน Euro NCAP 2026 การตรวจจับแอลกอฮอล์แบบไร้สัมผัสผ่านการวิเคราะห์รูม่านตา สายตา อาการตากระตุก และ HRV">Euro NCAP 2026 Impairment Detection 기준을 만족하는 FunnyTech21의 AI 기반 운전자 손상 상태 탐지 솔루션. 동공, 시선, 안진, HRV 분석을 통해 운전자의 알코올 음주 상태를 비접촉으로 탐지합니다.</p>
+            <p class="blog-excerpt" data-ko="자율주행 기술이 오픈소스로 풀리면서 기술 차별화의 시대는 끝났습니다. 이제 진짜 경쟁력은 '사고 발생 시 누가 책임지는가'를 증명할 수 있는 온디바이스 운전자 상태 분석 기술에 있습니다." data-en="As autonomous driving technology becomes open source, the era of technical differentiation is over. The real competitive edge now lies in on-device driver state analysis technology that can prove 'who is responsible when accidents occur.'" data-ja="自動運転技術がオープンソース化され、技術差別化の時代は終わりました。今、本当の競争力は「事故発生時に誰が責任を負うか」を証明できるオンデバイス運転者状態分析技術にあります。" data-zh="随着自动驾驶技术开源化，技术差异化的时代已经结束。现在真正的竞争力在于能够证明'事故发生时谁负责'的设备端驾驶员状态分析技术。" data-de="Da autonome Fahrtechnologie Open Source wird, ist die Ära der technischen Differenzierung vorbei. Der echte Wettbewerbsvorteil liegt jetzt in der On-Device-Fahrerstatusanalyse-Technologie." data-es="A medida que la tecnología de conducción autónoma se convierte en código abierto, la era de la diferenciación técnica ha terminado. La verdadera ventaja competitiva ahora reside en la tecnología de análisis del estado del conductor en el dispositivo." data-fr="Alors que la technologie de conduite autonome devient open source, l'ère de la différenciation technique est terminée. Le véritable avantage concurrentiel réside désormais dans la technologie d'analyse de l'état du conducteur sur l'appareil." data-vi="Khi công nghệ lái xe tự động trở thành mã nguồn mở, kỷ nguyên khác biệt hóa kỹ thuật đã kết thúc. Lợi thế cạnh tranh thực sự hiện nay nằm ở công nghệ phân tích trạng thái tài xế trên thiết bị." data-th="เมื่อเทคโนโลยีการขับขี่อัตโนมัติกลายเป็นโอเพนซอร์ส ยุคของการสร้างความแตกต่างทางเทคนิคก็สิ้นสุดลง ความได้เปรียบในการแข่งขันที่แท้จริงอยู่ที่เทคโนโลยีการวิเคราะห์สถานะผู้ขับขี่บนอุปกรณ์">자율주행 기술이 오픈소스로 풀리면서 기술 차별화의 시대는 끝났습니다. 이제 진짜 경쟁력은 '사고 발생 시 누가 책임지는가'를 증명할 수 있는 온디바이스 운전자 상태 분석 기술에 있습니다.</p>
             <a href="blog-idms-alcohol-detection.html" class="blog-read-more" data-ko="자세히 보기" data-en="Read more" data-ja="詳細を見る" data-zh="阅读更多" data-de="Mehr lesen" data-es="Leer más" data-fr="Lire la suite" data-vi="Đọc thêm" data-th="อ่านเพิ่มเติม">
                 자세히 보기
                 <svg viewBox="0 0 24 24" fill="none" stroke="currentColor" stroke-width="2"><path d="M5 12h14M12 5l7 7-7 7"/></svg>
